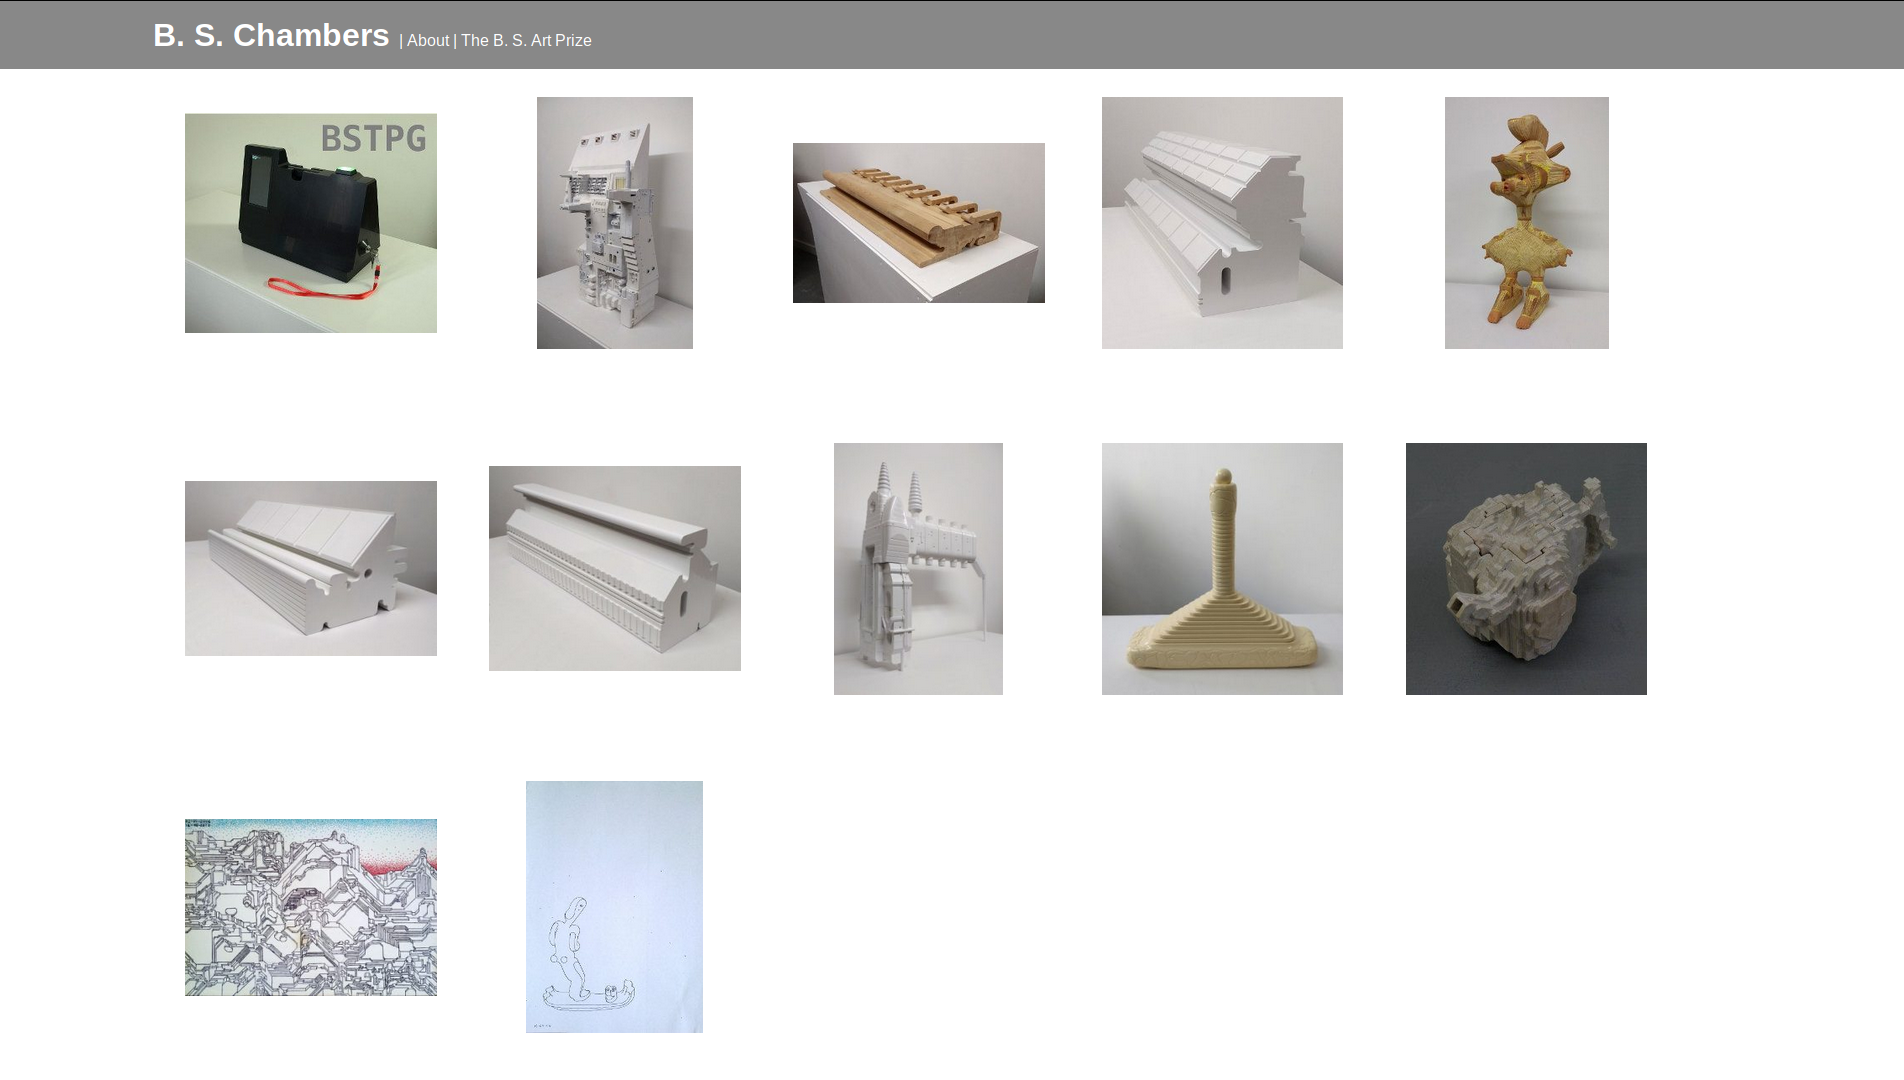
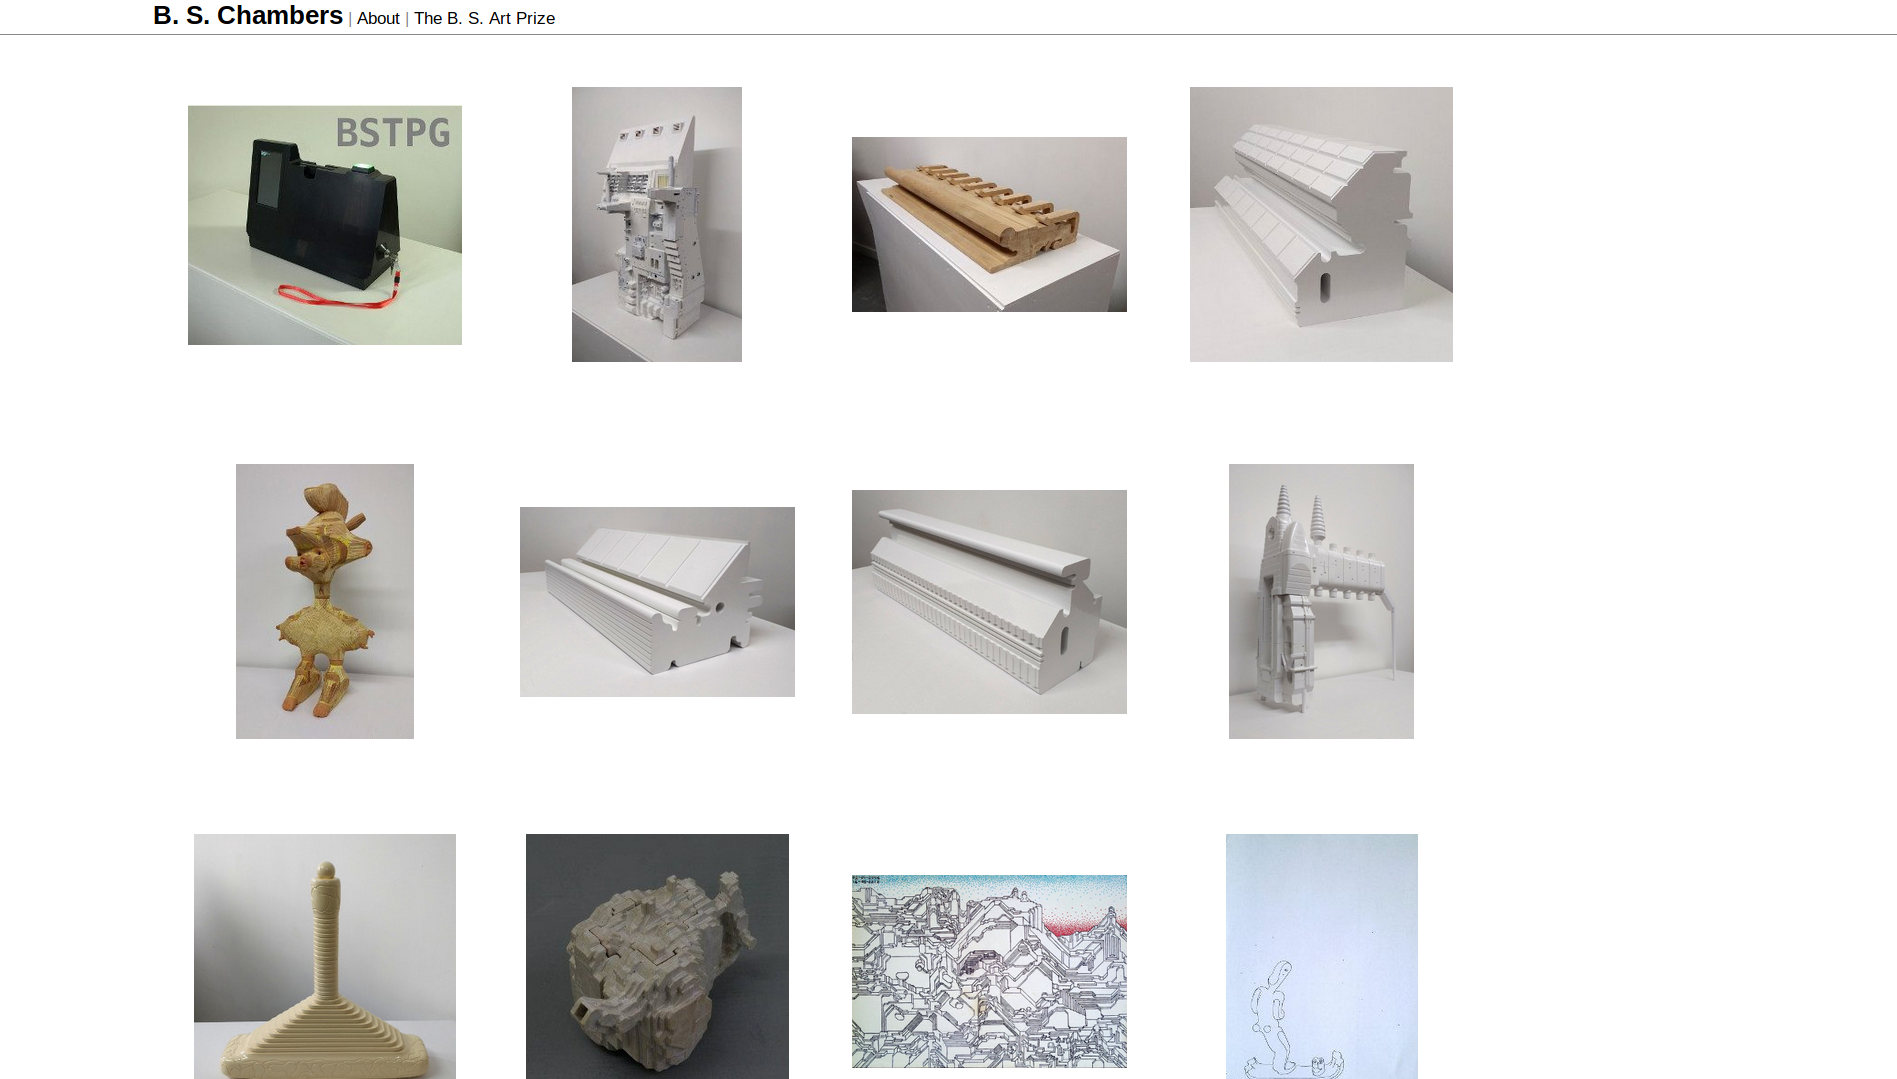
Images fit to screen on narrow display.

diff --git a/style.css b/style.css
@@ -293,4 +293,11 @@ article.single-page-content {
         float: none;
         margin-top: 0;
     }
+
+    /* make sure that image is no wider than screen */
+    article.single-page-content img {
+        max-width: 100%;
+        height: auto;
+    }
+    
 }
